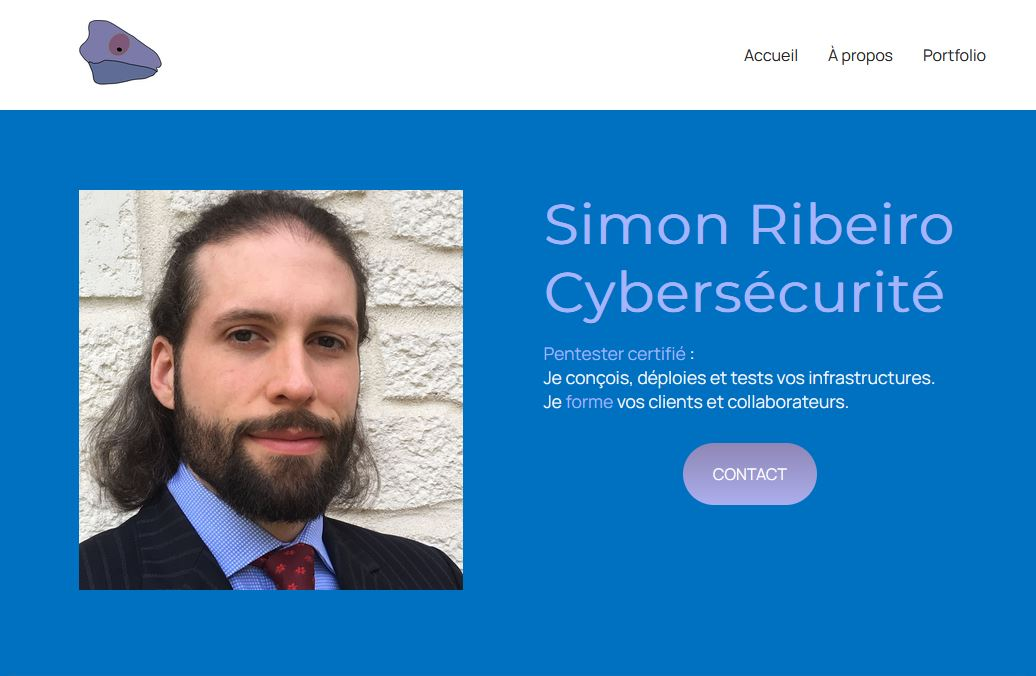
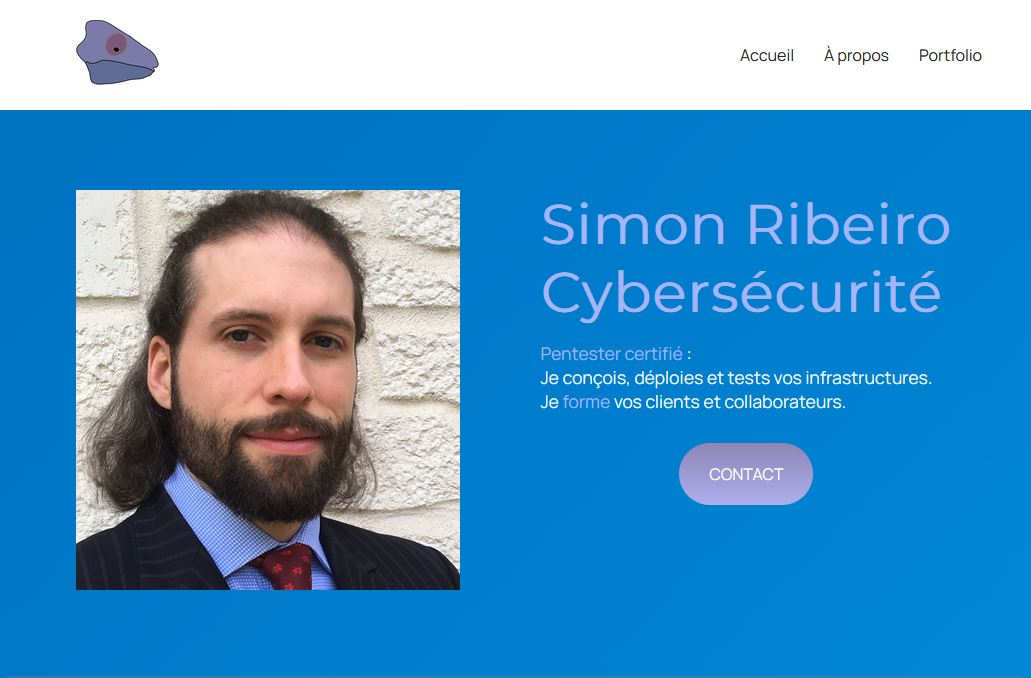
css body gradient

diff --git a/style/style.css b/style/style.css
@@ -5,7 +5,7 @@
 body {
   font-family: 'Manrope', sans-serif;
   font-size: 1em;
-  background-color: #0070C0;
+  background: linear-gradient(135deg,rgba(0, 112, 192, 1) 0%, rgba(0, 145, 224, 1) 75%, rgba(0, 198, 255, 1) 100%);
 }
 
 section {
